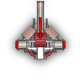
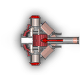
correct directions

Changed region(s): [[0.125, 0.0, 1.0, 0.875]]

diff --git a/js/src/Towers/Tower.js b/js/src/Towers/Tower.js
@@ -19,8 +19,8 @@ Tower.prototype = {
             var unit = this.getStage().find('#'+unitName)[0];
 
             var delta = {
-                x: this.getX() - unit.getX(),
-                y: this.getY() - unit.getY()
+                x: unit.getX() - this.getX(),
+                y: unit.getY() - this.getY()
             };
             var angleTo = Math.atan2(delta.y,delta.x);
             var angle = ~~Math.Util.radToDeg(angleTo);
